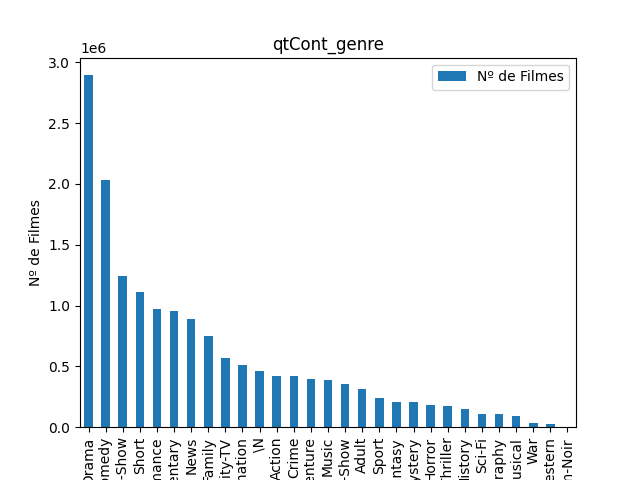
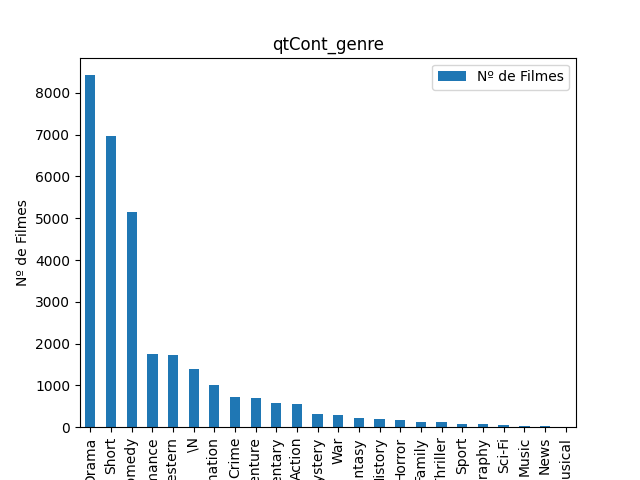
Alteração

Changed region(s): [[0.0, 0.1562, 0.9062, 1.0], [0.0625, 0.125, 0.125, 0.1562], [0.125, 0.0938, 0.1562, 0.125]]

diff --git a/imdb.py b/imdb.py
@@ -1,19 +1,27 @@
 import pandas as pd
 
-ds = pd.read_table("./data_reduced.tsv", sep="\t", encoding="UTF-8")
-ds['genres'] = ds['genres'].str.split(",")
-ds = ds.explode('genres')
+ds = pd.read_table("./data.tsv", sep="\t", encoding="UTF-8")
+ds['runtimeMinutes'] = pd.to_numeric(ds['runtimeMinutes'], errors='coerce')
+ds['isAdult'] = pd.to_numeric(ds['isAdult'], errors='coerce')
+ds_sep_gen = ds
+ds_sep_gen['genres'] = ds_sep_gen['genres'].str.split(",")
+ds_sep_gen = ds_sep_gen.explode('genres')
+
 
 def get_genres():
-    genres = ds['genres'].value_counts().reset_index()
-    genres.columns = ['Gênero', 'Nº de Filmes']
+    genres = ds_sep_gen['genres'].value_counts().reset_index()
+    genres['Duração Média'] = ds_sep_gen.dropna(subset=['runtimeMinutes']).groupby('genres')['runtimeMinutes'].mean().reset_index()['runtimeMinutes']
+    genres.columns = ['Gênero', 'Nº de Filmes', 'Duração Média']
+    
     return genres
 
 def get_movies(genero):
-    movies = ds[ds['genres'] == genero]
+    movies = ds_sep_gen[ds_sep_gen['genres'] == genero]
     movies = movies.rename(columns={'primaryTitle' : 'Título'})
     return movies
 
+def get_movie_info(filme):
+    return ds[ds['primaryTitle'] == filme]
 
 def plot_graph(df, x_axis, y_axis, kind, name):
     plot = df.plot(x=x_axis, y=y_axis, kind=kind)
@@ -22,13 +30,18 @@ def plot_graph(df, x_axis, y_axis, kind, name):
     plot.set_title(name)
     plot.get_figure().savefig(name + '.png')
 
+
 genres = get_genres()
-plot_graph(genres, 'Gênero', 'Nº de Filmes', 'bar', 'qtCont_genre')
 print(genres)
 genero = input("Selecione um gênero: ")
 movies = get_movies(genero)
 
 for index, row in movies.iterrows():
-    print(row['Título'])
+    print(f"{index}\t{row['Título']}")
     
 filme = input("Selecione um filme: ")
+movie = get_movie_info(filme)
+print(movie)
+
+plot_graph(genres, 'Gênero', 'Nº de Filmes', 'bar', 'qtCont_genre')
+plot_graph(genres, 'Gênero', 'Duração Média', 'bar', 'medDur_genre')
